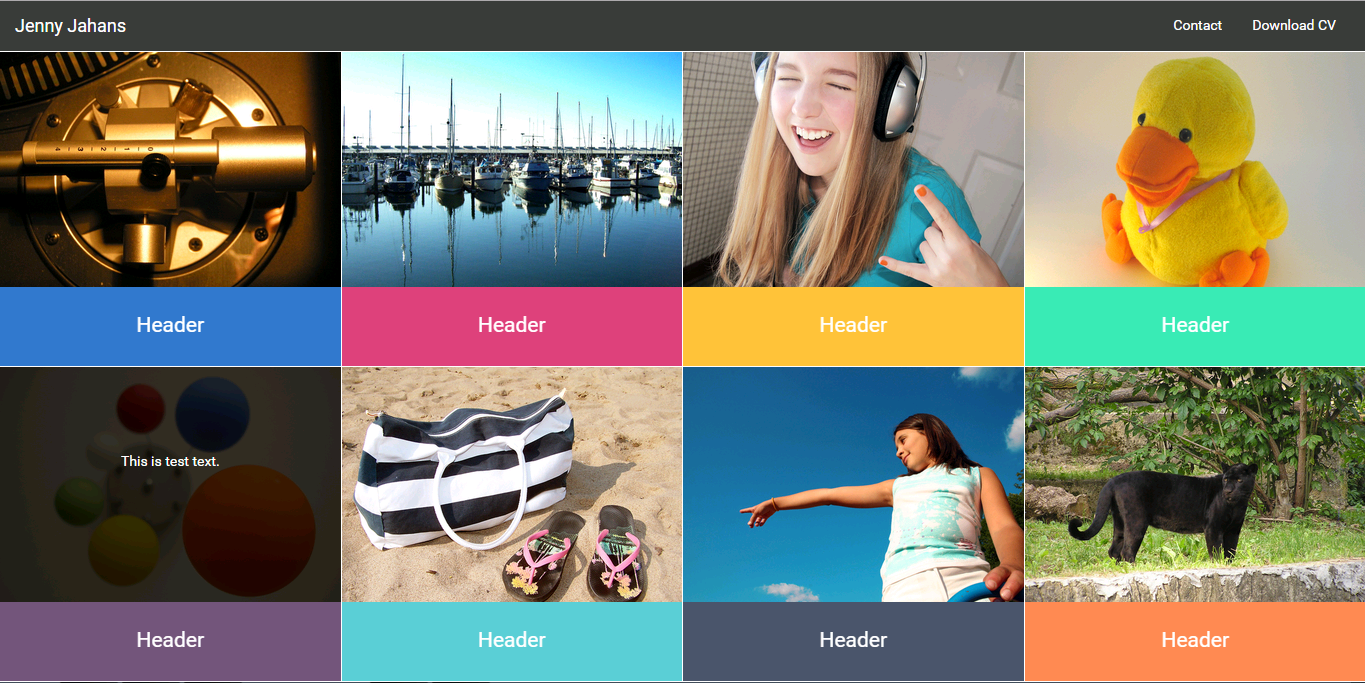
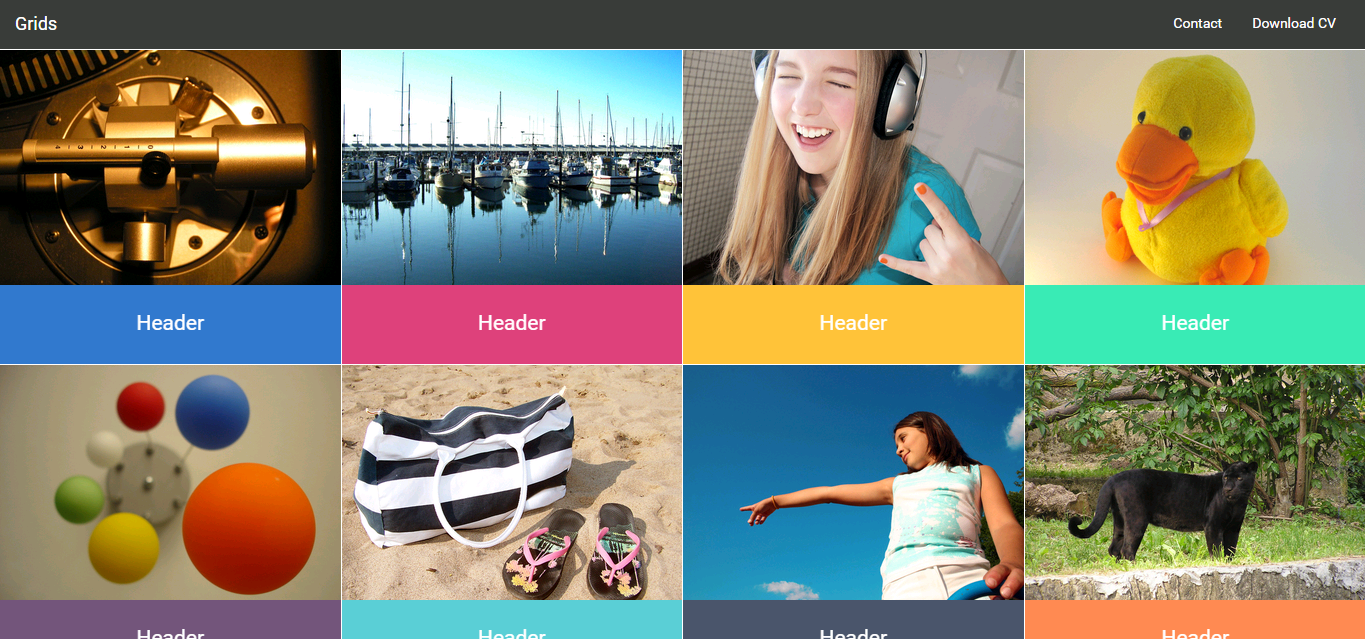
changed grid img

diff --git a/assets/jenny/index.html b/assets/jenny/index.html
@@ -26,7 +26,7 @@
         <span class="icon-bar"></span>
         <span class="icon-bar"></span>
       </button>
-      <div class="navbar-brand" href="#">Jenny Jahans</div>
+      <div class="navbar-brand" href="#">Grids</div>
     </div>
 
     <!-- Collect the nav links, forms, and other content for toggling -->
